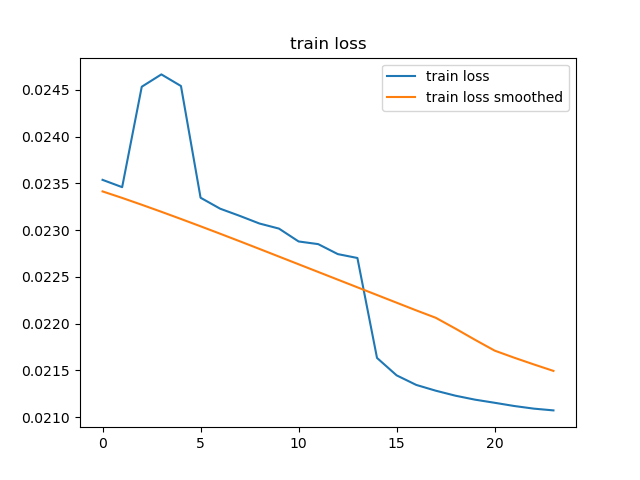
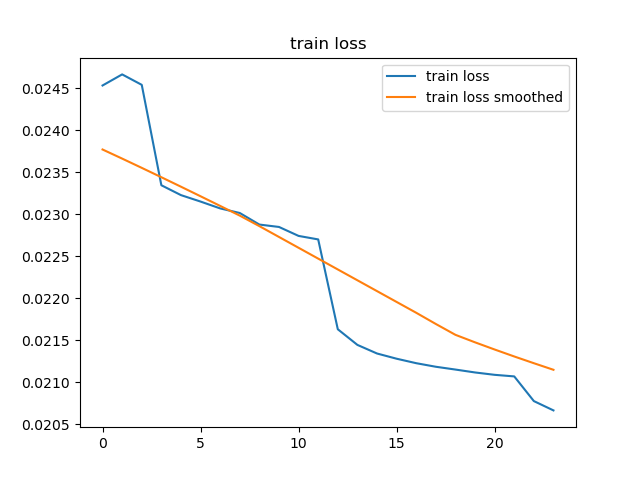
pre_generator.py

diff --git a/mss/models/auto_encoder_other.py b/mss/models/auto_encoder_other.py
@@ -84,6 +84,13 @@ class AutoEncoder():
         variational_auto_encoder.load_weights(weights_path)
         return variational_auto_encoder
 
+    def custom_loss(self,y_true,y_pred):
+        custom_loss = K.mean(tf.square(tf.multiply(tf.square(y_true-y_pred),1000) ))
+        
+        return custom_loss
+
+
+
     def load_weights(self, weights_path):
         self.model.load_weights(weights_path)        
         # for layer in self.model.layers:
@@ -141,7 +148,7 @@ class AutoEncoder():
         optimizer = Adam(learning_rate=learning_rate)
         mse_loss = MeanSquaredError()
         # mse_loss = MeanAbsoluteError()
-        self.model.compile(optimizer=optimizer, loss=mse_loss)
+        self.model.compile(optimizer=optimizer, loss=mse_loss) #self.custom_loss)
 
     def train(self,x_train,y_train,batch_size,num_epoch):
         # since we try to reconstruct the input, the output y_train is basically also x_train
@@ -180,38 +187,42 @@ class AutoEncoder():
                 try:
                     x_train, y_train = self.dataloader.load_data(batch_nr=batch_nr)
                     loss = self.model.train_on_batch(x_train, y_train) 
-                    loss2 = loss #float(str(loss)) #[0:9])
+                    # loss2 = loss #float(str(loss)) #[0:9])
+                    loss2 = float(str(loss)[4:9])
                     self.loss.append(loss)  
                     
                     meanloss = np.mean(self.loss) 
-                    # meanloss = float(str(meanloss)) #[0:9])
+                    meanloss = float(str(meanloss)[4:9])
                     # if loss > 0.01:
                     #         self.dataloader.showcase_outlier_train()
                     
                     count_val +=1
-                    if  batch_nr % 6 == 0 and batch_nr <= 1240*6:
+                    if  batch_nr % 6 == 0 and batch_nr <= 1240 *6: #804:
                         x_val, y_val = self.dataloader.load_val(batch_nr=batch_nr)
                         # val_loss = self.model.train_on_batch(x_val, y_val) 
                         # print("val loss 1",val_loss)
-                        y_pred = self.model.predict(x_val)
+                        y_pred = self.model(x_val)#self.model.predict(x_val)
+                        '''
                         y_pred = tf.convert_to_tensor(y_pred,dtype=tf.float32)
                         y_val = tf.cast(y_val, y_pred.dtype)
                         val_loss = K.mean(tf.math.squared_difference(y_pred, y_val), axis=-1)
                         # val_loss = val_loss.eval(session=tf.compat.v1.Session()) # if eager execution
                         val_loss = np.mean(val_loss.numpy())
-                        
+                        '''
                         # mae = MeanAbsoluteError()
-                        # mae = mae(y_pred,y_val).numpy()
-                        # val_loss = mae
+                        mae = MeanSquaredError()
+                        mae = mae(y_pred,y_val).numpy()
+                        val_loss = mae
 
                         # print("val loss 2",val_loss)
                         val_loss2 =  val_loss#float(str(val_loss)) #[0::])
+                        val_loss2 =  float(str(val_loss)[4:9:])
                         # print("\n","val_loss",val_loss,"\t",val_loss2)
                         if val_loss < 0.01:                            
                             # self.dataloader.showcase_outlier_val()
                             self.val_loss_m.append(val_loss)                      
                             meanloss_val = np.mean(self.val_loss_m)
-                            # meanloss_val = float(str(meanloss_val)) #[0:9])
+                            meanloss_val = float(str(meanloss_val)[4:9])
                         else:
                             count_val2+=1
                             if len(self.val_loss_m) <= 0: # when there is no mean to be calculated (first batch)                            
@@ -221,7 +232,7 @@ class AutoEncoder():
                                 # self.val_loss_m.append(np.mean(self.val_loss_m)) 
                                 pass         
                             meanloss_val = np.mean(self.val_loss_m)
-                            # meanloss_val = float(str(meanloss_val)) #[0:9])]
+                            meanloss_val = float(str(meanloss_val)[4:9])
                         # print("\n",round(count_val2/(count_val2+count_val) * 100,2))
 
                     if batch_nr %100 == 0:   

diff --git a/mss/utils/visualisation.py b/mss/utils/visualisation.py
@@ -74,13 +74,13 @@ def visualize_loss(total_train_loss,total_val_loss,save=True,smoothing=30,model_
 if __name__== "__main__":
     RESET_LOSS = False
     LAST_N_EPOCH = 60
-    MODEL_NAME = "model_other_no_BN_augmented"
+    MODEL_NAME = "model_other_no_BN_augmented_lowloss_b1"
 
-    total_train_loss = list(np.load(f"visualisation/{MODEL_NAME}/total_train_loss.npy"))
-    total_val_loss = list(np.load(f"visualisation/{MODEL_NAME}/total_val_loss.npy"))
+    total_train_loss = (np.load(f"visualisation/{MODEL_NAME}/total_train_loss.npy"))
+    total_val_loss = (np.load(f"visualisation/{MODEL_NAME}/total_val_loss.npy"))
 
-    LAST_N_EPOCH = 30 # len(total_train_loss)-2
-    smoothing =   5# int(np.sqrt(LAST_N_EPOCH))    # len(total_train_loss)//10
+    LAST_N_EPOCH =  len(total_train_loss)
+    smoothing =   1# int(np.sqrt(LAST_N_EPOCH))    # len(total_train_loss)//10
     # print(len(total_train_loss[:-(LAST_N_EPOCH-1)])//1)
     print(len(total_train_loss))
     print(f"Epochs:\t\t{LAST_N_EPOCH}\nSmoothing:\t{smoothing}")
@@ -91,3 +91,34 @@ if __name__== "__main__":
                     smoothing=smoothing,
                     model_name=MODEL_NAME
                 )
+
+
+
+'''
+    total_train_loss1 = (np.load(f"visualisation/{MODEL_NAME}/total_train_loss.npy"))
+    total_val_loss1 = (np.load(f"visualisation/{MODEL_NAME}/total_val_loss.npy"))
+
+    MODEL_NAME = "model_other_no_BN_augmented"
+    total_train_loss = (np.load(f"visualisation/{MODEL_NAME}/total_train_loss.npy"))[:26]
+    total_val_loss = (np.load(f"visualisation/{MODEL_NAME}/total_val_loss.npy"))[:26]
+
+    total_train_loss *= 10000000
+    total_val_loss *= 10000000
+    total_train_loss = np.array([round(x) for x in total_train_loss])
+    total_val_loss = np.array([round(x) for x in total_val_loss])
+
+    addition = np.array([17831.0, 17312.0, 17563.0, 16985.0, 
+            16856.0,  16511.0, 16440.0, 16343.0, 16030.0, 15880.0 , 15661.0, 15430.0, 15370.0 ,
+            12556.0,  15111.0, 15130.0, 15062.0, 14985.0, 14911.0 , 14861.0, 14740.0, 14670.0 ,
+            14550.0,  14516.0, 14470.0, 14352.0, 14285.0, 14311.0 , 14101.0, 14040.0, 13950.0 ,
+            13850.0,  13716.0, 13670.0, 13652.0, 13585.0, 13511.0 , 13501.0, 13540.0, 13450.0 ,
+            13350.0,  13356.0, 13370.0, 13322.0, 13285.0, 13251.0 , 13131.0, 13040.0, 12950.0 ,
+            12900.0,  12945.0, 12953.0, 12912.0, 12885.0, 12831.0 , 12756.0, 12710.0, 12653.0 ,
+        ])
+    total_train_loss = np.concatenate((total_train_loss,addition))
+
+    # print(type(total_train_loss[0]),type(total_train_loss1[0]))
+    total_train_loss = np.concatenate((total_train_loss,total_train_loss1))
+    total_val_loss = np.concatenate((total_val_loss,total_val_loss1))
+    print(total_train_loss)
+    '''

diff --git a/mss/postprocessing/generator_new_song.py b/mss/postprocessing/generator_new_song.py
@@ -1,0 +1,52 @@
+from audioop import minmax
+from math import prod
+from mss.preprocessing.preprocesssing import MinMaxNormalizer
+
+import numpy as np
+import matplotlib.pyplot as plt
+# from auto_encoder_vanilla import VariationalAutoEncoder
+# from mss.models.auto_encoder import AutoEncoder
+from mss.models.auto_encoder_other import AutoEncoder
+from mss.models.atrain import load_fsdd
+import librosa, librosa.display
+from scipy.io import wavfile
+from scipy.signal import wiener
+import tensorflow as tf
+from tensorflow.keras import backend as K
+
+from mss.utils.dataloader import natural_keys, atof
+import glob
+import os
+
+'''
+For each track in track_input
+
+1) Load track
+2) preprocess the track 
+3) Model the track
+
+'''
+
+
+
+def load_input_track(spectrograms_path):
+#   sub = ["mixture","vocals","bass","drums","other","accompaniment"]
+
+  filelist = glob.glob(os.path.join("track_input", '*'))
+  filelist.sort(key=natural_keys)
+  print(len(filelist))
+
+  # 
+  for i, file in enumerate(filelist):
+    if i >=0 and i < 400: # remove this when full dataset
+      normalized_spectrogram = np.load(file)
+      x_train.append(normalized_spectrogram)
+  filelist = glob.glob(os.path.join("F:/Thesis/"+spectrograms_path+"/other", '*'))
+  filelist.sort(key=natural_keys)
+  for i, file in enumerate(filelist):
+    if i >=0 and i <400: # remove this when full dataset
+      normalized_spectrogram = np.load(file)
+      y_train.append(normalized_spectrogram)
+  x_train = np.array(x_train)
+  y_train = np.array(y_train)      
+  return x_train,y_train

diff --git a/mss/postprocessing/generator.py b/mss/postprocessing/generator.py
@@ -14,18 +14,20 @@ from scipy.signal import wiener
 import tensorflow as tf
 from tensorflow.keras import backend as K
 
+
 def main():
-    auto_encoder = AutoEncoder.load("model_other_no_BN_augmented_mae-9-0.02107")  #model_spectr for first_source_sep
+    auto_encoder = AutoEncoder.load("model_other_no_BN_augmented_lowloss_b1-0-11996.0")  #model_spectr for first_source_sep
     auto_encoder.summary()
     b_train,y_train = load_fsdd("test") # note the amnt of datapoints load_fssd loads -> check the function
     (np.min(b_train),np.max(b_train))
+    
 
     total_track = []
     reall = False
     for r in range (3):
         # r=2
         total_track = []
-        for i in range(80,100): # test 140-160 should be very good!
+        for i in range(40,60): # test 140-160 should be very good!
             sound = i #132 test
 
             # weights = np.full_like(b_train[:1],1/prod(b_train[:1].shape))
@@ -40,7 +42,7 @@ def main():
                 x_train=np.array(b_train[sound:sound+1]) 
 
             # x_train += (np.random.rand(b_train.shape[0],b_train.shape[1],b_train.shape[2],b_train.shape[3])-0.5) * 0.3
-            print(x_train.shape)
+            print(i,x_train.shape)
             if r == 0:
                 x_train = auto_encoder.model.predict(b_train[sound:sound+1])
 

diff --git a/mss/models/atrain.py b/mss/models/atrain.py
@@ -80,7 +80,7 @@ def main():
     
     # the more complex the model -> the lower the lr should be
     BATCH_SIZE = 8
-    LEARNING_RATE = 5e-5
+    LEARNING_RATE = 1e-4
     EPOCHS = 40
     MODEL_NAME = "model_other_no_BN_augmented" #"model_instruments_other-10-0.00635"
 
@@ -95,8 +95,8 @@ def main():
     '''repeated training'''  
     print("new learnn rate:",LEARNING_RATE)
     for i in range(1):
-      variational_auto_encoder = AutoEncoder.load("model_other_no_BN_augmented-7-0.0013") 
-      variational_auto_encoder.name="model_other_no_BN_augmented"
+      variational_auto_encoder = AutoEncoder.load("model_other_no_BN_augmented_lowloss-1-11700.0") 
+      variational_auto_encoder.name="model_other_no_BN_augmented_lowloss_b1"
       variational_auto_encoder.compile(learning_rate=LEARNING_RATE)       
       variational_auto_encoder.train_on_batch(BATCH_SIZE,EPOCHS)    
       variational_auto_encoder.save("model_other_no_BN_augmented_final")

diff --git a/mss/misc/leetcode.py b/mss/misc/leetcode.py
@@ -1,0 +1,20 @@
+class Solution(object):
+    def longestCommonPrefix(self, strs):
+        """
+        :type strs: List[str]
+        :rtype: str
+        """
+        longest_word = len(max(strs,key=len))
+        lcp = 0
+        str_copy = strs
+        for i in (range(longest_word)):
+            str_copy = [x[:longest_word-i] for x in str_copy]
+            if all(ele == str_copy[0] for ele in str_copy): 
+                lcp = longest_word-i; 
+                break
+        return strs[0][:lcp]
+      
+
+sol = Solution()
+
+print(sol.longestCommonPrefix(["agja","agjatia","agjaea"]))

diff --git a/mss_extractor.py b/mss_extractor.py
@@ -1,0 +1,1 @@
+import mss
